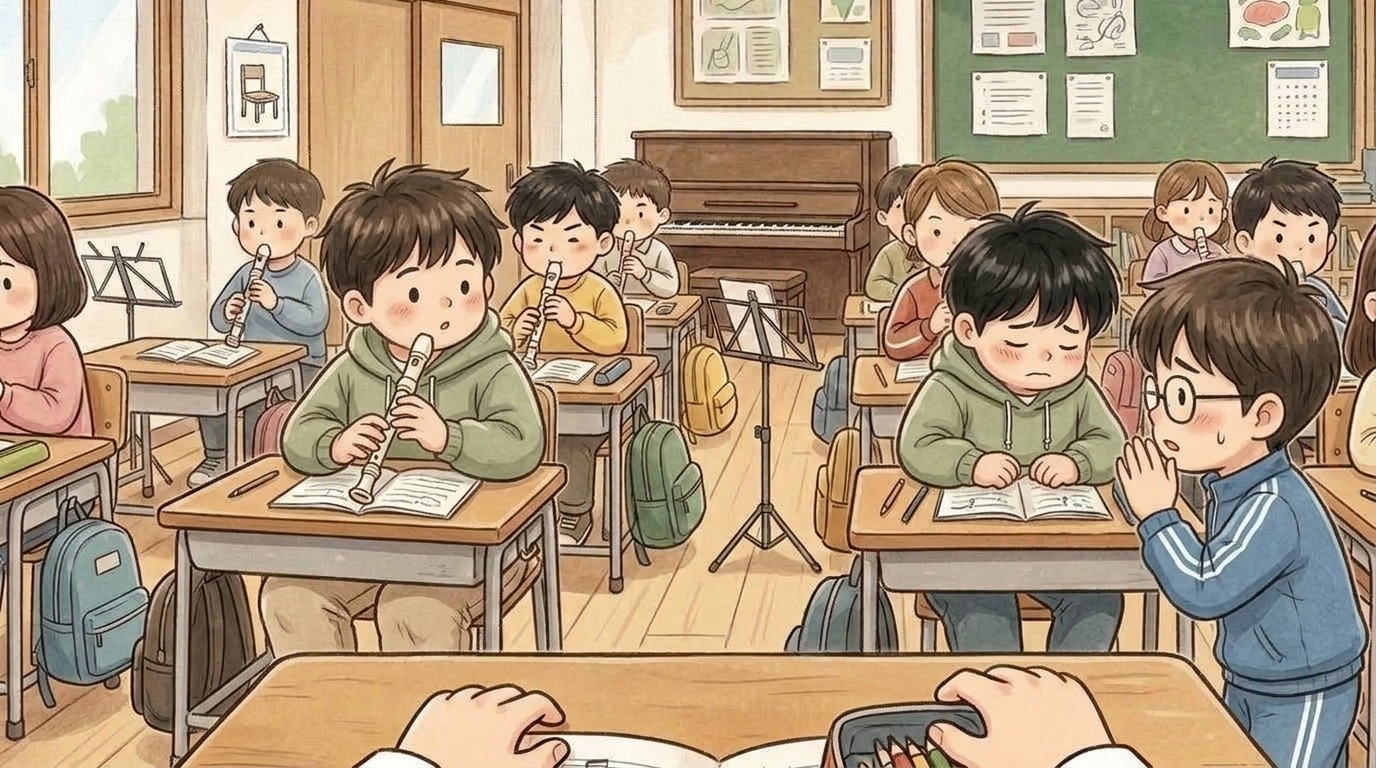
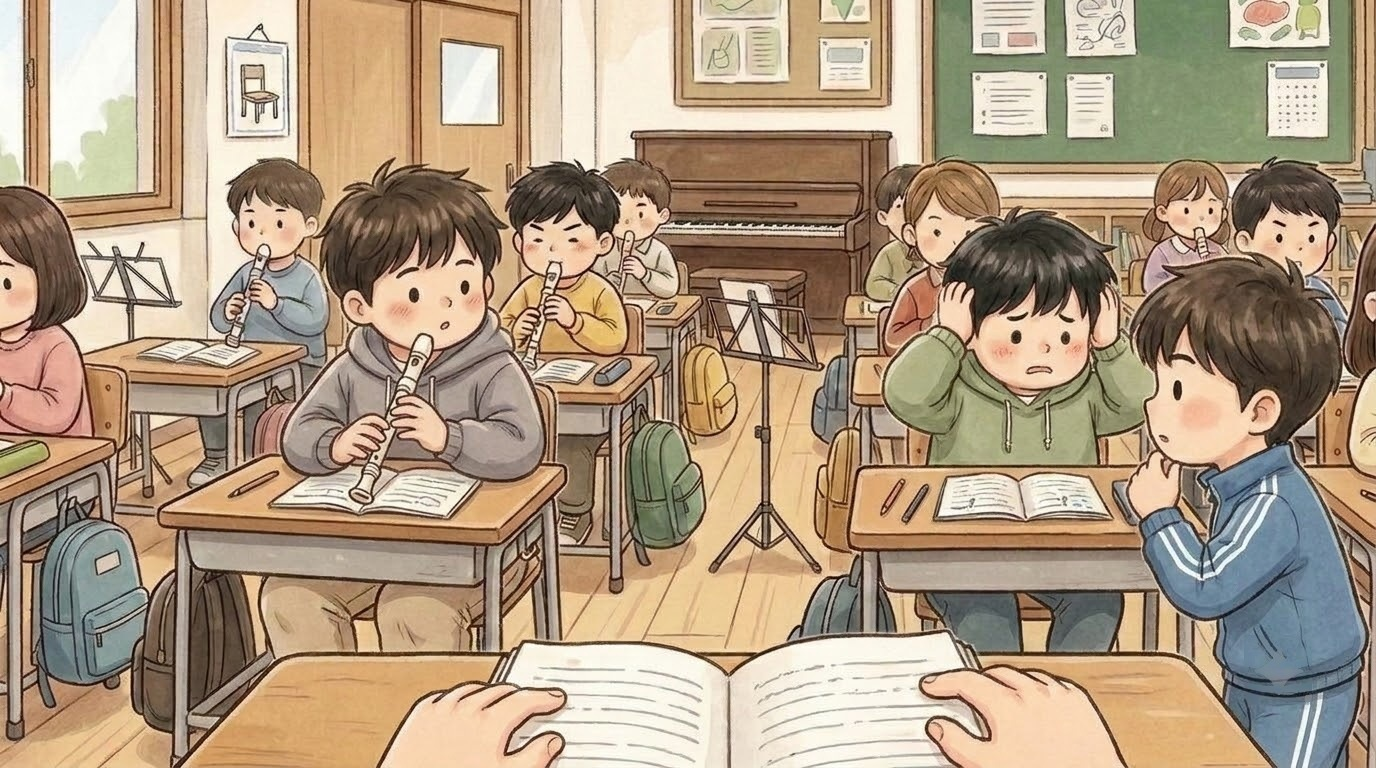
시우 15일차: 쉬는 자리 카드 그림(귀 가린 카드), B 장면(시우 한 명·준호), D 장면(헤드폰 없앰), 아빠 저녁 문장 그림과 맞춤; 고르기 문제에도 장면별 물건 그림이 나오게 고침

diff --git a/index.html b/index.html
@@ -119,14 +119,14 @@ body,button{word-break:keep-all;overflow-wrap:break-word}
 <div id="fader"></div>
 <script>
 // same address, newest version: if the page this phone has kept is older than the one online, fetch the new one and reopen
-const BUILD='1115133226';
+const BUILD='1115140204';
 try{fetch(location.pathname,{cache:'no-store'}).then(r=>r.text()).then(t=>{const m=t.match(/const BUILD='(\d+)'/);if(m&&m[1]!==BUILD&&sessionStorage.getItem('upd')!==m[1]){sessionStorage.setItem('upd',m[1]);fetch(location.pathname,{cache:'reload'}).then(()=>location.reload())}}).catch(()=>{})}catch(e){}
 </script>
-<script src="i18n.js?v=1115133226"></script>
-<script src="i18n_prologue_v2.js?v=1115133226"></script>
-<script src="day2/i18n_engine.js?v=1115133226"></script>
-<script src="day2/data.js?v=1115133226"></script>
-<script src="day3/data.js?v=1115133226"></script>
+<script src="i18n.js?v=1115140204"></script>
+<script src="i18n_prologue_v2.js?v=1115140204"></script>
+<script src="day2/i18n_engine.js?v=1115140204"></script>
+<script src="day2/data.js?v=1115140204"></script>
+<script src="day3/data.js?v=1115140204"></script>
 <script>
 // ---------- data ----------
 const MW=1672,MH=941,KID=180;
@@ -582,37 +582,37 @@ function pickHero(){const m=document.getElementById('modal'),c=document.getEleme
  c.innerHTML=`<h2>${tr('전학생 반장되기')}</h2><p>${tr('한국말이 아직 서툰 전학생,<br>반장 선거에 나가다.')}</p><p style="margin-top:14px">${tr('누구로 할까요?')}</p>${(()=>{const s=loadSave();return s&&s.day>=2&&s.mode===UI+'-'+LANG?`<p><button class="big" id="cont">${tr('{n}일차부터 이어 하기').replace('{n}',s.day)}</button></p>`:''})()}<div class="pick heroes"><button data-h="hero_f"><img src="faces/hero_f_smile.jpg" alt="여자 주인공">${heroName(1)}</button><button data-h="hero_m"><img src="faces/hero_m_smile.jpg" alt="남자 주인공">${heroName(0)}</button></div>`;
  m.classList.add('on');{const cb=document.getElementById('cont');if(cb)cb.onclick=()=>{const s=loadSave();HERO=s.hero;Object.assign(HEART,s.heart||{});(s.found||[]).forEach(k=>FOUND.add(k));HEART_D1={...HEART};chime();(typeof contGame==='function'?contGame(s):startDay(Math.min(s.day,Object.keys(window.D3||{}).length?3:2)))}}c.querySelectorAll('.pick button').forEach(b=>b.onclick=()=>{HERO=b.dataset.h;m.classList.remove('on');chime();bgm('day');load('home_am');say([['nar','','이사 온 다음 날 아침. 아직 풀지 못한 상자들이 쌓여 있다.'],['think','sad','(오늘부터 새 학교야. 여기 말도 아직 서툰데…….)'],['think','smile','({m}한테 인사하고 학교 가야지.)']],morning)})}
 </script>
-<script src="day2/engine.js?v=1115133226"></script>
-<script src="day2/ep_minho.js?v=1115133226"></script>
-<script src="day2/meet.js?v=1115133226"></script>
-<script src="day2/ep_sua.js?v=1115133226"></script>
-<script src="day2/ep_hangyeol.js?v=1115133226"></script>
-<script src="day2/ep_siwoo.js?v=1115133226"></script>
-<script src="day2/ep_haram.js?v=1115133226"></script>
-<script src="day2/ep_jiho.js?v=1115133226"></script>
-<script src="day2/ep_hyeeun.js?v=1115133226"></script>
-<script src="day2/ep_haneul.js?v=1115133226"></script>
-<script src="day2/ep_junho.js?v=1115133226"></script>
-<script src="day2/ep_yuna.js?v=1115133226"></script>
-<script src="day2/ep_yena.js?v=1115133226"></script>
-<script src="day2/ep_haeun.js?v=1115133226"></script>
-<script src="day2/ep_youngmin.js?v=1115133226"></script>
-<script src="day2/ep_seah.js?v=1115133226"></script>
-<script src="day2/ep_jihoon.js?v=1115133226"></script>
-<script src="words_ja_ru.js?v=1115133226"></script>
-<script src="day2/mybag.js?v=1115133226"></script>
-<script src="day2/wordpics.js?v=1115133226"></script>
-<script src="day2/spots.js?v=1115133226"></script>
-<script src="day2/textfit.js?v=1115133226"></script>
-<script src="day2/tester.js?v=1115133226"></script>
-<script src="day2/ux.js?v=1115133226"></script>
-<script src="day2/tapword.js?v=1115133226"></script>
-<script src="day2/review.js?v=1115133226"></script>
-<script src="day2/plane.js?v=1115133226"></script>
-<script src="day2/bubble.js?v=1115133226"></script>
-<script src="day2/ep_ending.js?v=1115133226"></script>
-<script src="day2/ending.js?v=1115133226"></script>
-<script src="day2/stats.js?v=1115133226"></script>
+<script src="day2/engine.js?v=1115140204"></script>
+<script src="day2/ep_minho.js?v=1115140204"></script>
+<script src="day2/meet.js?v=1115140204"></script>
+<script src="day2/ep_sua.js?v=1115140204"></script>
+<script src="day2/ep_hangyeol.js?v=1115140204"></script>
+<script src="day2/ep_siwoo.js?v=1115140204"></script>
+<script src="day2/ep_haram.js?v=1115140204"></script>
+<script src="day2/ep_jiho.js?v=1115140204"></script>
+<script src="day2/ep_hyeeun.js?v=1115140204"></script>
+<script src="day2/ep_haneul.js?v=1115140204"></script>
+<script src="day2/ep_junho.js?v=1115140204"></script>
+<script src="day2/ep_yuna.js?v=1115140204"></script>
+<script src="day2/ep_yena.js?v=1115140204"></script>
+<script src="day2/ep_haeun.js?v=1115140204"></script>
+<script src="day2/ep_youngmin.js?v=1115140204"></script>
+<script src="day2/ep_seah.js?v=1115140204"></script>
+<script src="day2/ep_jihoon.js?v=1115140204"></script>
+<script src="words_ja_ru.js?v=1115140204"></script>
+<script src="day2/mybag.js?v=1115140204"></script>
+<script src="day2/wordpics.js?v=1115140204"></script>
+<script src="day2/spots.js?v=1115140204"></script>
+<script src="day2/textfit.js?v=1115140204"></script>
+<script src="day2/tester.js?v=1115140204"></script>
+<script src="day2/ux.js?v=1115140204"></script>
+<script src="day2/tapword.js?v=1115140204"></script>
+<script src="day2/review.js?v=1115140204"></script>
+<script src="day2/plane.js?v=1115140204"></script>
+<script src="day2/bubble.js?v=1115140204"></script>
+<script src="day2/ep_ending.js?v=1115140204"></script>
+<script src="day2/ending.js?v=1115140204"></script>
+<script src="day2/stats.js?v=1115140204"></script>
 <script>
 // the goal shows big for a few seconds, then folds into a small pill (tap it to open it again)
 {const g=document.getElementById('goal');let t=null;const big=()=>{g.classList.remove('mini');clearTimeout(t);t=setTimeout(()=>g.classList.add('mini'),4000)};

diff --git a/day2/meet.js b/day2/meet.js
@@ -198,7 +198,7 @@ function dayHasContent(n){if(n===2)return true;if(n===3&&Object.keys(window.D3||
 saveDay=function(){try{localStorage.setItem('haru_save',JSON.stringify({day:DAY,hero:HERO,heart:HEART,found:[...FOUND],mode:UI+'-'+LANG,meet:MEET,flags:FLAGS}))}catch(e){}};
 function contGame(s){MEET={...(s.meet||{})};FLAGS={...(s.flags||{})};let n=s.day||2;if(n>3||n===3&&!Object.keys(window.D3||{}).length)n=dayHasContent(n)?n:2;startDay(n)}
 // a card picture only for words that have one
-const CARDS_HAVE=new Set(['alarm_clock','ankle','apple','apron','apron_pink','bag','bag_gym','bag_yuna','ball','ball_dodge','ballot_box','banana','band_aid','bandage','basket','basket_blue','battery','bean','bed','bench','big_dog','blackboard','blanket','board','book','bookmark','bookshelf','bowl','box','bread','broom','bucket','bus','butterfly','calendar','camera','card','card_greeting','cards_play','cart','cat','cat_yellow','chair','chalk','chopsticks','clip','clock','clothes','cloud','cocoon','coin','colored_pencil','colored_pencil_green','crayon','cup','curtain','cushion','desk','doll','door','drawer','drawing_paper','drum','ear','earmuffs','earphones','envelope','eraser','eraser_cloud','eye','fan','finger','fish','flag','flashlight','flower','flowerpot','foot','forehead','fridge','friend','gift','glove','glove_goalie','glove_wheel','glue','glue_stick','goal','grandma','gym_clothes','hair_tie','hand','handkerchief','hat','headphones','highlighter','hoodie','hourglass','ice','ice_pack','indoor_shoes','jump_rope','key','knee','ladle','lid','line','locker','locker_grid','lunch_box','lunchbox','magnet','magnet_board','magnifying_glass','map','mask','mechanical_pencil','milk','milk_carton','milk_crate','milk_strawberry','mirror','mirror_wall','moon','name','name_tag','napkin','nose','note','notebook','notebook_blue','notebook_gray','notice_book','paintbrush','paints','palette','paper','paper_crumpled','payphone','pcase','pen','pencil','phone','photo','photo_cam','photo_grandma','picture','pillow','pocket','poster','radio','recorder','rice_cake','roof','ruler','sand','school_gate','scissors','shadow','sharpener','sheet_music','shoes','sketchbook','snack','sock','soup','speaker','spider','spoon','stairs','stairs_down','stamp','sticker','stone','stopwatch','straw','sun','swing','table','tangerine','tape','tape_measure','teacher','textbook','thread','thread_floss','tissue','tofu','toilet','toothbrush','towel','trash_can','tray','tree','tv','umbrella','umbrella_broken','umbrella_flower','vest','wall','wallet','water','water_bottle','water_bottle_pink','water_drops','water_tap','watering_can','wheel','wheel_chair','wheelchair','whistle','window','worksheet','wrist']);// 11/14 owner: every word with a picture in cards/ (clock, textbook... never came up in the bubble review before)
+const CARDS_HAVE=new Set(['card_rest','alarm_clock','ankle','apple','apron','apron_pink','bag','bag_gym','bag_yuna','ball','ball_dodge','ballot_box','banana','band_aid','bandage','basket','basket_blue','battery','bean','bed','bench','big_dog','blackboard','blanket','board','book','bookmark','bookshelf','bowl','box','bread','broom','bucket','bus','butterfly','calendar','camera','card','card_greeting','cards_play','cart','cat','cat_yellow','chair','chalk','chopsticks','clip','clock','clothes','cloud','cocoon','coin','colored_pencil','colored_pencil_green','crayon','cup','curtain','cushion','desk','doll','door','drawer','drawing_paper','drum','ear','earmuffs','earphones','envelope','eraser','eraser_cloud','eye','fan','finger','fish','flag','flashlight','flower','flowerpot','foot','forehead','fridge','friend','gift','glove','glove_goalie','glove_wheel','glue','glue_stick','goal','grandma','gym_clothes','hair_tie','hand','handkerchief','hat','headphones','highlighter','hoodie','hourglass','ice','ice_pack','indoor_shoes','jump_rope','key','knee','ladle','lid','line','locker','locker_grid','lunch_box','lunchbox','magnet','magnet_board','magnifying_glass','map','mask','mechanical_pencil','milk','milk_carton','milk_crate','milk_strawberry','mirror','mirror_wall','moon','name','name_tag','napkin','nose','note','notebook','notebook_blue','notebook_gray','notice_book','paintbrush','paints','palette','paper','paper_crumpled','payphone','pcase','pen','pencil','phone','photo','photo_cam','photo_grandma','picture','pillow','pocket','poster','radio','recorder','rice_cake','roof','ruler','sand','school_gate','scissors','shadow','sharpener','sheet_music','shoes','sketchbook','snack','sock','soup','speaker','spider','spoon','stairs','stairs_down','stamp','sticker','stone','stopwatch','straw','sun','swing','table','tangerine','tape','tape_measure','teacher','textbook','thread','thread_floss','tissue','tofu','toilet','toothbrush','towel','trash_can','tray','tree','tv','umbrella','umbrella_broken','umbrella_flower','vest','wall','wallet','water','water_bottle','water_bottle_pink','water_drops','water_tap','watering_can','wheel','wheel_chair','wheelchair','whistle','window','worksheet','wrist']);// 11/14 owner: every word with a picture in cards/ (clock, textbook... never came up in the bubble review before)
 cardOf=function(k){return CARDS_HAVE.has(k)?`cards/${k}.jpg`:null};
 end2=function(){const n=DAY,next=n+1,hasNext=dayHasContent(next);DAY=hasNext?next:n;saveDay();DAY=n;
  const m=document.getElementById('modal'),c=document.getElementById('mcard');const hs=Object.entries(HEART).map(([i,nn])=>`${nm(i)} ♥${nn}`).join(' · ')||tr('아직 없음');

diff --git a/day2/wordpics.js b/day2/wordpics.js
@@ -9,7 +9,7 @@ const WORDPIC={
  minho_03:{cat:'cat_yellow'},hangyeol_10:{magnet:'magnet_board'},
  siwoo_08:{mirror:'mirror_wall'},
  hyeeun_05:{box:'milk_crate'},hyeeun_08:{box:'milk_crate'},hyeeun_07:{locker:'locker_grid'},minho_12:{box:'milk_crate'},minho_vote:{box:'ballot_box'},
- haram_09:{card:'card_greeting'},seah_08:{card:'cards_play'},
+ haram_09:{card:'card_greeting'},seah_08:{card:'cards_play'},siwoo_14:{card:'card_rest'},
  hangyeol_08:{umbrella:'umbrella_flower'},minho_08:{umbrella:'umbrella_broken'},
  hyeeun_02:{glove:'glove_wheel'},hyeeun_03:{glove:'glove_wheel'},hyeeun_15:{glove:'glove_wheel'},junho_09:{glove:'glove_goalie'},
  hyeeun_01:{wheel:'wheel_chair'},hyeeun_13:{wheel:'wheel_chair'},
@@ -29,7 +29,7 @@ const WORDPIC={
  hangyeol_01:{thread:'thread_floss'},hangyeol_12:{thread:'thread_floss'}};
 // which of those pictures are really there (a list, not a network probe: a missing file would show as a page error).
 // When a new picture from list F is added, put its name here (items = cut-out .png, cards = card .jpg).
-const PIC_ITEM=new Set(['colored_pencil_green','mirror_wall','photo_grandma','locker_grid','stairs_down','magnet_board', 'cat_yellow', 'ballot_box', 'cards_play', 'glue_stick', 'milk_crate', 'paper_crumpled', 'water_bottle_pink', 'water_drops', 'glove_wheel', 'glove_goalie', 'wheel_chair', 'card_greeting', 'ball_dodge', 'ice_pack', 'umbrella_flower', 'umbrella_broken', 'eraser_cloud', 'milk_strawberry', 'bag_gym', 'water_tap', 'notebook_blue', 'notebook_gray', 'thread_floss']),PIC_CARD=new Set(['mirror_wall','photo_grandma','stairs_down','magnet_board', 'cat_yellow', 'ballot_box', 'glue_stick', 'milk_crate', 'paper_crumpled', 'cards_play', 'water_bottle_pink', 'water_drops', 'photo_cam', 'glove_wheel', 'glove_goalie', 'wheel_chair', 'card_greeting', 'ball_dodge', 'ice_pack', 'umbrella_flower', 'umbrella_broken', 'eraser_cloud', 'milk_strawberry', 'bag_gym', 'water_tap', 'notebook_blue', 'notebook_gray', 'thread_floss']);
+const PIC_ITEM=new Set(['card_rest','colored_pencil_green','mirror_wall','photo_grandma','locker_grid','stairs_down','magnet_board', 'cat_yellow', 'ballot_box', 'cards_play', 'glue_stick', 'milk_crate', 'paper_crumpled', 'water_bottle_pink', 'water_drops', 'glove_wheel', 'glove_goalie', 'wheel_chair', 'card_greeting', 'ball_dodge', 'ice_pack', 'umbrella_flower', 'umbrella_broken', 'eraser_cloud', 'milk_strawberry', 'bag_gym', 'water_tap', 'notebook_blue', 'notebook_gray', 'thread_floss']),PIC_CARD=new Set(['mirror_wall','photo_grandma','stairs_down','magnet_board', 'cat_yellow', 'ballot_box', 'glue_stick', 'milk_crate', 'paper_crumpled', 'cards_play', 'water_bottle_pink', 'water_drops', 'photo_cam', 'glove_wheel', 'glove_goalie', 'wheel_chair', 'card_greeting', 'ball_dodge', 'ice_pack', 'umbrella_flower', 'umbrella_broken', 'eraser_cloud', 'milk_strawberry', 'bag_gym', 'water_tap', 'notebook_blue', 'notebook_gray', 'thread_floss']);
 let LAYPIC={},LAYPIC_EP=null;const DAYPIC={};
 function picOf(k){if(typeof SCENE_EP==='undefined'||!SCENE_EP)return k;if(LAYPIC_EP!==SCENE_EP){LAYPIC={};LAYPIC_EP=SCENE_EP}
  const w=(WORDPIC[SCENE_EP.scene]||{})[k],v=(w&&PIC_ITEM.has(w)&&w)||LAYPIC[k];if(!v||v===k)return k;DAYPIC[k]=v;PIC_ITEM.add(v);return v}// a laid picture is there (it is on the map)
@@ -39,7 +39,8 @@ function picOf(k){if(typeof SCENE_EP==='undefined'||!SCENE_EP)return k;if(LAYPIC
   lay=(lay||[]).map(t=>{const i=typeof t[1]==='string'?5:4;if(t[i]){if(t[i]!=='-')LAYPIC[t[0]]=t[i];return t}const v=picOf(t[0]);if(v===t[0])return t;const c=t.slice();while(c.length<i)c.push(undefined);c[i]=v;return c});
   return _lay(lay,clear)}}
 // picture trays (my bag, close-ups, two-step finds): the scene's picture for each thing
-{const _bag=bagFind;bagFind=function(k,items,goalText,done){const r=_bag(k,items,goalText,done);
+// (11/15) bagFind draws its tiles later (after the pictures load), so the scene's picture goes in as 'key:picture' up front
+{const _bag=bagFind;bagFind=function(k,items,goalText,done){items=(items||[]).map(q=>{if(q.includes(':'))return q;const v=picOf(q);return v&&v!==q?q+':'+v:q});const r=_bag(k,items,goalText,done);
   document.querySelectorAll('#mcard .zit').forEach(b=>{const q=b.dataset.k,v=picOf(q),im=b.querySelector('img');if(v===q||!im||!/items\/\w+\.png$/.test(im.getAttribute('src')||'')||im.getAttribute('src')!==`items/${q}.png`)return;
    im.onerror=()=>{im.onerror=()=>b.remove();im.src=`items/${q}.png`};im.src=`items/${v}.png`});return r}}
 // cards (the day's word cards): the picture the word had today

diff --git a/day2/ep_siwoo.js b/day2/ep_siwoo.js
@@ -819,7 +819,7 @@ EP.siwoo=[
   ['think','relieved','(시우가 곤충 지식을 줄 때는 고맙다는 뜻이야.)'],
   ['me','smile','……고마워.'],
   ['siwoo','relieved','……정확해.']],
- eve:{lead:[['nar','','{d}가 일찍 와서 내 옆에 앉았다. 딱 30센티쯤.'],['me','smile','{m}, 시우가 이상한 말 사전 30번에 ‘친구’를 적었어.'],['mom','surprised','친구는 이상한 말 아니잖아?'],['me','smile','응. 근데 다들 뜻을 다르게 말해서 자기가 정했대. ‘친구는 30센티 안에 들어와도 되는 사람.’'],['dad','smile','……그리고?'],['me','relieved','그게 나래.']],
+ eve:{lead:[['nar','','오늘은 {d}가 일찍 와서 저녁을 차렸다.'],['me','smile','{m}, 시우가 이상한 말 사전 30번에 ‘친구’를 적었어.'],['mom','surprised','친구는 이상한 말 아니잖아?'],['me','smile','응. 근데 다들 뜻을 다르게 말해서 자기가 정했대. ‘친구는 30센티 안에 들어와도 되는 사람.’'],['dad','smile','……그리고?'],['me','relieved','그게 나래.']],
   A:[['me','sad','너무 좋아서 안아 버렸어. 근데 시우가 굳었어. 들어와도 된다고 했지 닿아도 된다고는 안 했대.'],['mom','sad','……시우가 많이 놀랐겠다.'],['me','sad','응. 먼저 물어봤어야 했어. 미안하다고 했어. 31번에 적는대. ‘들어와도 되는 것과 닿아도 되는 것은 다름.’'],['mom','smile','다음엔 먼저 물어보면 돼. 시우는 물어보면 정확하게 대답해 주잖아.']],
   B:[['me','smile','어디까지 가도 되냐고 물었어. 20센티래. 한 걸음 갔더니 22센티래. 정확하진 않은데 괜찮대.'],['dad','smile','물어보고 갔구나.'],['me','relieved','응. 처음으로 같은 데서 {@cocoon} 봤어.']],
   C:[['me','laugh','10센티까지 되냐고 장난쳤더니 숨소리 들린대. 20센티로 정했어. 시우가 {@ruler}에 내 자리를 표시해 줬어.'],['mom','laugh','{@ruler}에 네 자리가 생겼네.'],['me','smile','응. 20센티.']],
